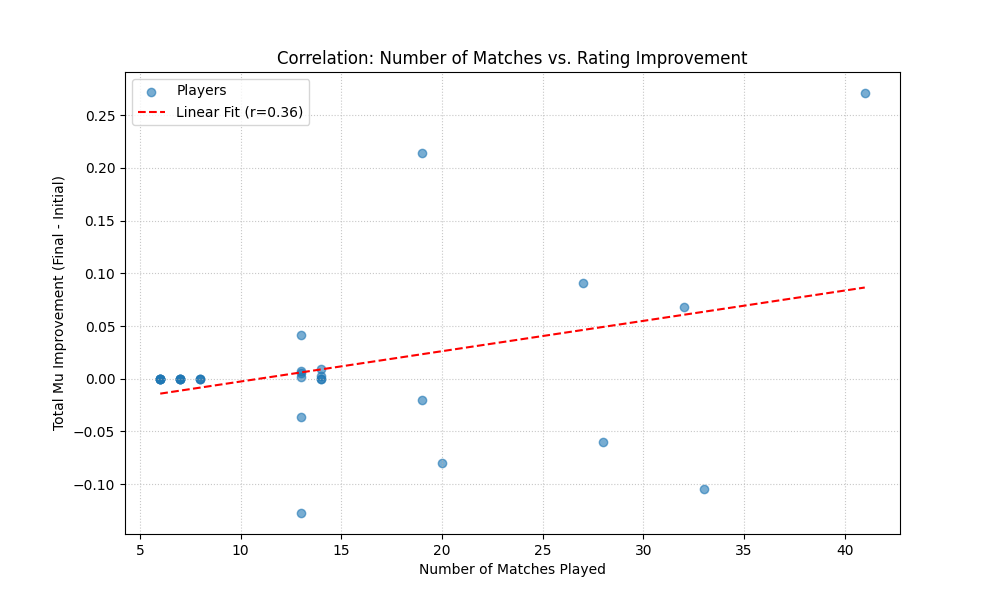
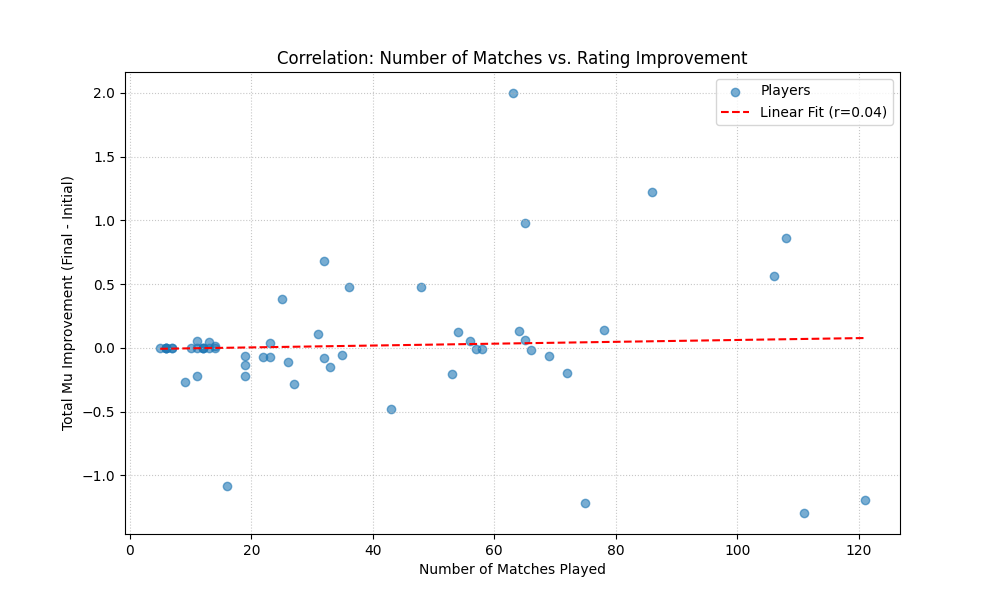
feat: floor carried-forward sigma at season rollover
prior_sigma carried into a new season is now floored at SEASON_MIN_PRIOR_SIGMA
(3.0). Highly active players ended a season with very low uncertainty, which
made their rating slow to move in the new one; the floor lets ratings adapt to
new-season form instead of inheriting last season's certainty.

Claude-Session: https://claude.ai/code/session_01B3fp5buxqxBsmkvAp4GcRi

diff --git a/season_service.py b/season_service.py
@@ -10,6 +10,7 @@ season's matches. Carry-forward and season creation are always one operation.
 import logging
 from datetime import date, datetime, timedelta
 
+from constants import SEASON_MIN_PRIOR_SIGMA
 from database import PlayerDB, SeasonDB
 from ttt_logic import age_sigma, get_ttt_history
 
@@ -21,7 +22,8 @@ def carry_forward_priors(end_day: int) -> dict:
 
     prior_mu is the converged mu as of end_day (the player's last match on or
     before end_day, ignoring any later matches). prior_sigma is that endpoint
-    sigma aged forward by TTT drift to end_day (see ttt_logic.age_sigma).
+    sigma aged forward by TTT drift to end_day (see ttt_logic.age_sigma), floored
+    at SEASON_MIN_PRIOR_SIGMA to prevent rating inertia in the new season.
     Players with no matches on or before end_day keep their existing priors.
     Converged mu/sigma are also persisted (the end-of-season standings).
 
@@ -52,7 +54,9 @@ def carry_forward_priors(end_day: int) -> dict:
         player.mu = final.mu
         player.sigma = final.sigma
         player.prior_mu = final.mu
-        player.prior_sigma = age_sigma(final.sigma, end_day - final_day)
+        player.prior_sigma = max(
+            age_sigma(final.sigma, end_day - final_day), SEASON_MIN_PRIOR_SIGMA
+        )
         updated += 1
 
     logger.info(f"Carried forward priors for {updated} player(s).")

diff --git a/constants.py b/constants.py
@@ -77,6 +77,10 @@ TTT_DEFAULT_MU = TTT_MU_AVERAGE
 # toward, so no one is ever treated as more uncertain than a never-seen player.
 TTT_DEFAULT_SIGMA = 6.0
 
+# Minimum uncertainty (sigma) carried forward into a new season at rollover.
+# Prevents rating inertia for highly active players so ratings adapt to new-season form.
+SEASON_MIN_PRIOR_SIGMA = 3.0
+
 # Game dynamics
 # Beta models within-game randomness: a player's performance in a single game
 # is drawn from N(skill, beta²). With beta=4.0 and 1 level = 3.5 mu:

diff --git a/docs/design.md b/docs/design.md
@@ -100,5 +100,5 @@ Both have identical public APIs and produce valid matches satisfying all constra
 ### Seasons
 - A season is a **date window**. Sessions belong to a season implicitly via their `created_at` (there is no `season_id` FK). The open season is the single `seasons` row with `end_date IS NULL`; before any season exists, all history is one implicit preseason.
 - **All rating computation is season-scoped.** `ttt_logic.get_ttt_history()` restricts sessions and matches to the current window, so `mu`/`sigma`, the improvement leaderboard, and recalculation reflect only the current season computed on top of carried priors — not the full match history.
-- **Rollover** (`season_service.start_new_season`) converges the closing window and carries each player's end-of-season skill forward as the next season's TTT prior: `prior_mu` = converged `mu`, `prior_sigma` = that endpoint's uncertainty aged to season end. The new season then computes from these priors plus only its own matches. Ordering is retry-safe — priors are written while the old season is still current, then the season is rolled, so a mid-rollover failure self-heals on re-run.
+- **Rollover** (`season_service.start_new_season`) converges the closing window and carries each player's end-of-season skill forward as the next season's TTT prior: `prior_mu` = converged `mu`, `prior_sigma` = that endpoint's uncertainty aged to season end, floored at `SEASON_MIN_PRIOR_SIGMA` to prevent rating inertia. The new season then computes from these priors plus only its own matches. Ordering is retry-safe — priors are written while the old season is still current, then the season is rolled, so a mid-rollover failure self-heals on re-run.
 - Uncertainty inflates with inactivity via `ttt_logic.age_sigma` (drift per idle day, capped at `TTT_DEFAULT_SIGMA`). The same helper is the single source of this rule for recalculation, carry-forward, and the improvement leaderboard.
